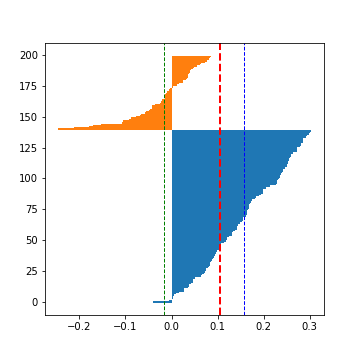
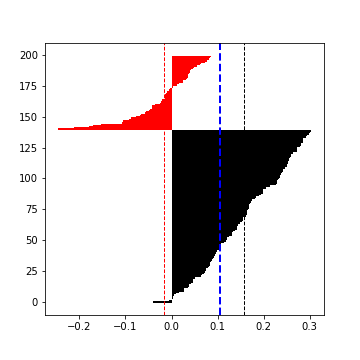
modifica cores no plot silh

Changed region(s): [[0.1528, 0.1528, 0.8556, 0.8556]]

diff --git a/ap2/silhouette.py b/ap2/silhouette.py
@@ -19,13 +19,13 @@ silh_samples = silhouette_samples(X = X, labels = Y)
 fig, ax = plt.subplots(1, 1, figsize = (5, 5))
 y_ticks = []
 y_lower = y_upper = 0
-color = ['blue', 'green']
+color = ['black', 'red']
 for i, k in enumerate(np.unique(Y)):
     cluster = silh_samples[Y == k]
     cluster.sort()
     y_upper += len(cluster)
     
-    ax.barh(range(y_lower, y_upper), cluster,height = 1)
+    ax.barh(range(y_lower, y_upper), cluster, height = 1, color = color[i])
     
     # ax.text(-0.03, (y_lower + y_upper) / 2, str(i + 1))
     y_lower += len(cluster)
@@ -36,5 +36,5 @@ for i, k in enumerate(np.unique(Y)):
                 linewidth = 1, color = color[i])
     # ax.set_xlim([-1, 1])
 ax.axvline(score, linestyle = '--', 
-           linewidth = 2, color = 'red')
+           linewidth = 2, color = 'blue')
 plt.savefig('fig/silh-' + option + '.png')
